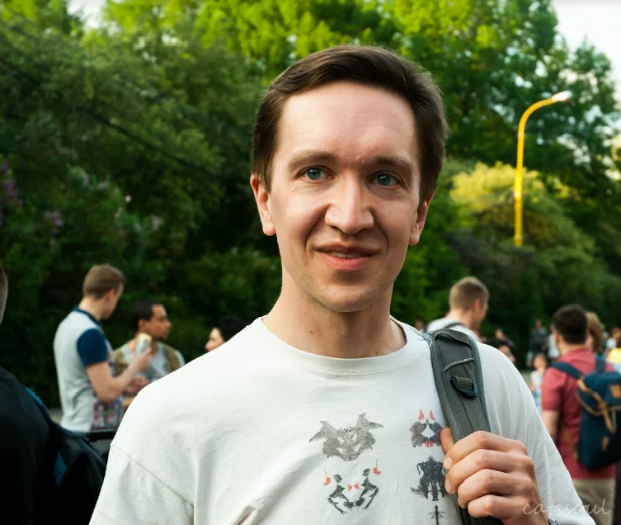
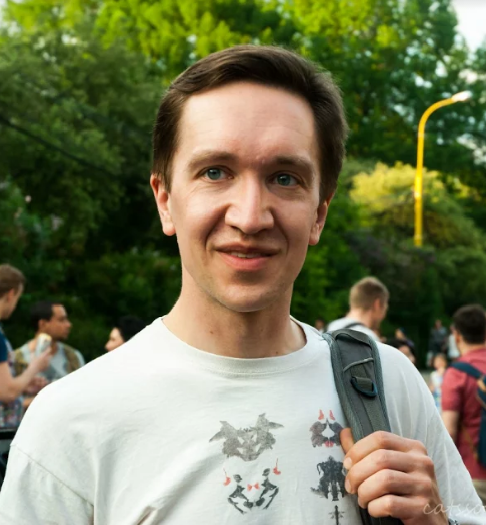
photos

diff --git a/css/styles.min.css b/css/styles.min.css
@@ -1052,7 +1052,7 @@ a {
   font-family: 'Noto Sans', sans-serif; }
   .teacher__img-wrap {
     max-width: 150px;
-    max-height: 270px;
+    max-height: 245px;
     margin: 0 1% 0 0;
     padding: 0;
     border-radius: 3px; }
